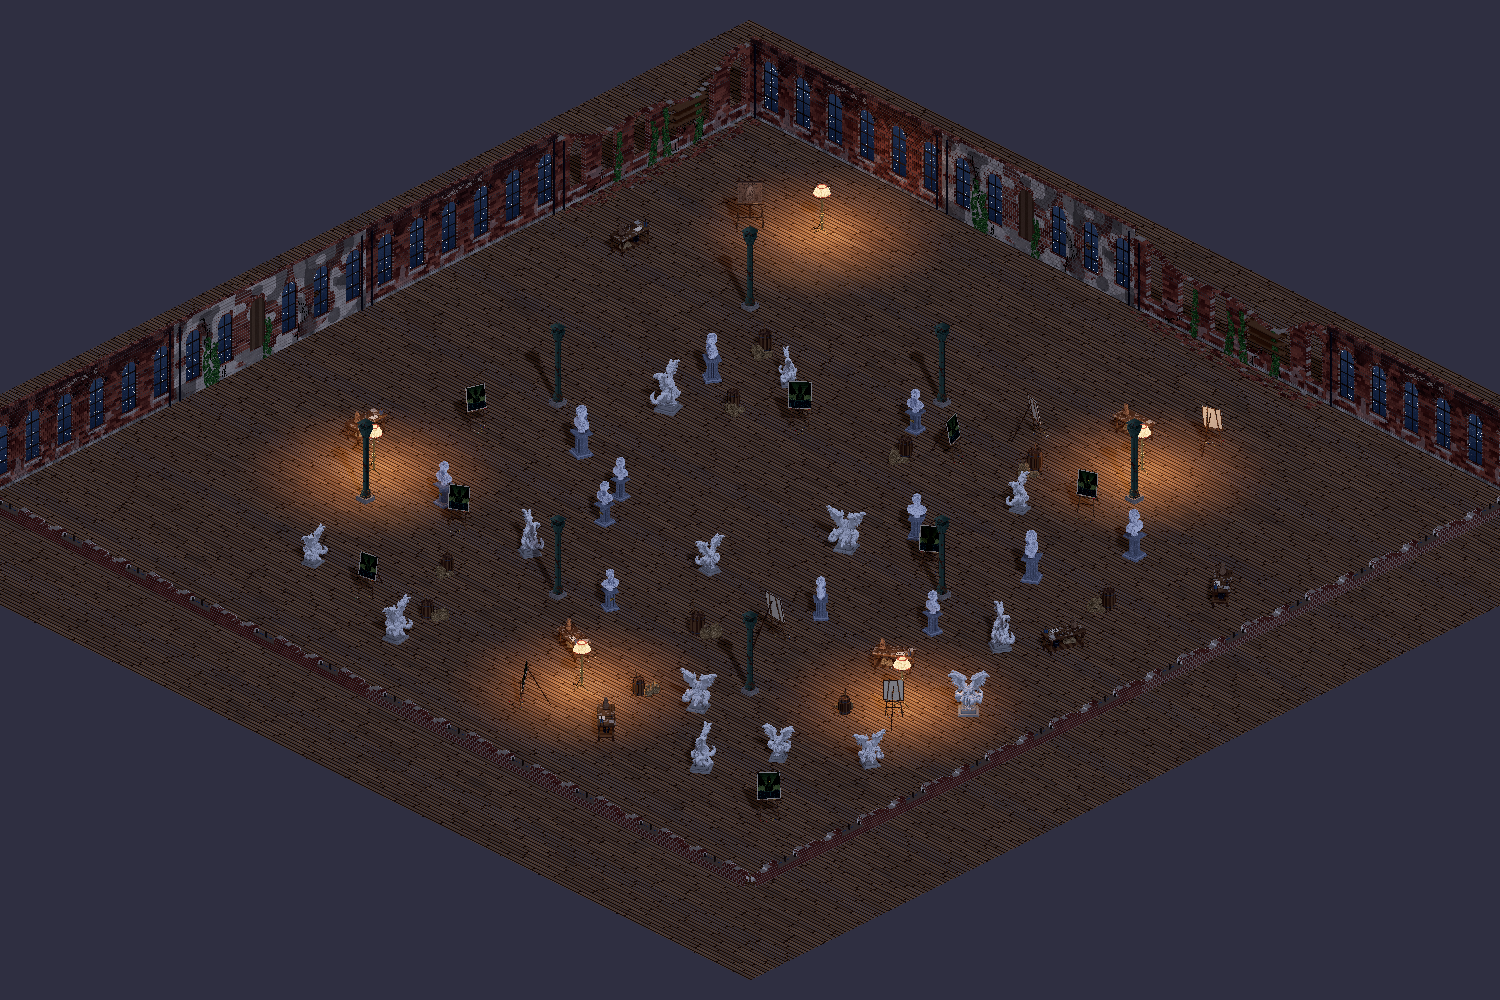
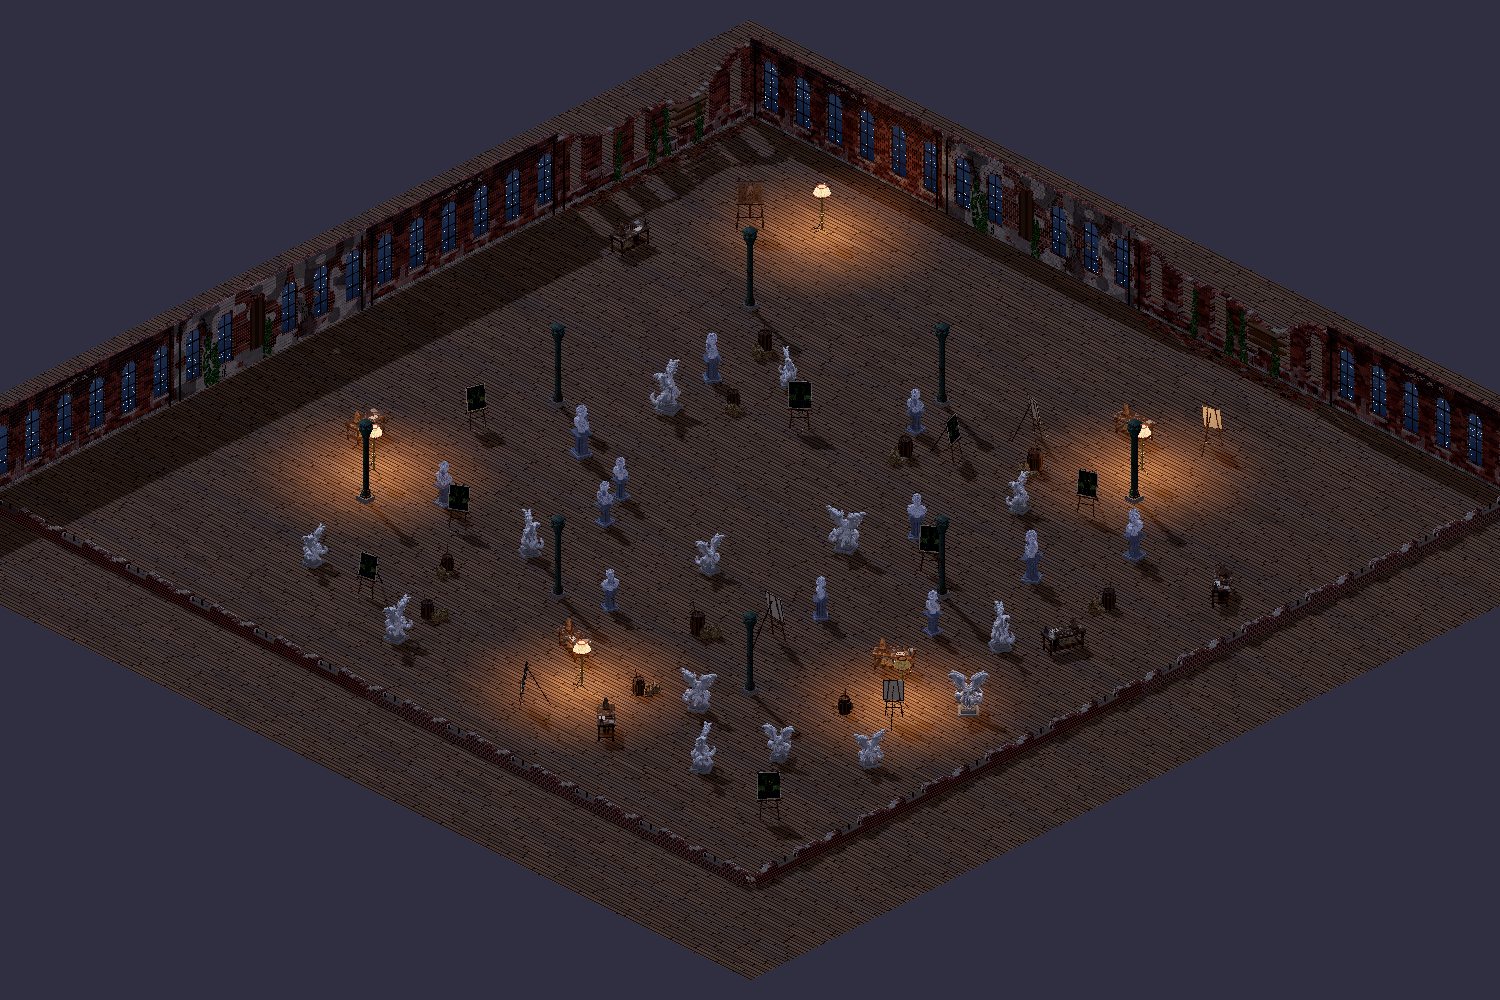
Mejoras pequeñas: tabla de fases del ROADMAP al día (fase 9 hecha, filas de la 15 y la 16); textos de nivel del Webly, los bisturís y la palanca corregidos para que digan lo que hace cada mejora (sin tocar el equilibrio); la luna del estudio de Wilcox entra por los ventanales, como los haces, y las 
Claude-Session: https://claude.ai/code/session_01NBdv2Q42fChdHX58K8AwfN

diff --git a/tools/gen_arena_estudio.py b/tools/gen_arena_estudio.py
@@ -75,7 +75,7 @@ A.write({
                "colors": {"base_hi": [0.56, 0.42, 0.28], "base_lo": [0.36, 0.27, 0.18], "joint": [0.30, 0.22, 0.15],
                           "moss": [0.30, 0.26, 0.20]}},
     # noche: la luna fría por los ventanales, las lámparas cálidas dentro
-    "light": {"gamma": 1.45, "sun_rot": [-40, 60], "sun_color": [0.55, 0.62, 0.80], "sun_energy": 0.35, "exposure": 1.3,
+    "light": {"gamma": 1.45, "sun_rot": [-41, -108], "sun_color": [0.55, 0.62, 0.80], "sun_energy": 0.35, "exposure": 1.3,
               "ambient_color": [0.34, 0.34, 0.42], "ambient_energy": 0.75,
               "background": [0.05, 0.05, 0.07], "fog_color": [0.12, 0.12, 0.16], "fog_density": 0.0},
     "lamp": {"color": [1.0, 0.72, 0.42], "energy": 2.2, "range": 8.0, "fog": 0.2},

diff --git a/docs/ESTADO.md b/docs/ESTADO.md
@@ -1812,7 +1812,7 @@ Los iconos son de píxel (9×9 con borde negro, en fila si son dos), dibujados e
   - arma nueva: «Armas 2 → 3 de 4»; evolución: lo que cambia del arma que lleva a la evolución (daño, cantidad, recarga, alcance, área…).
   - Mientras giran las cartas (el rodillo del cooperativo), no sale.
 - **En la tienda,** en cada potenciador sin completar: «Ahora +0 % → +4 %» (factor, fracción, por segundo o cuenta, según el potenciador).
-- **Un hallazgo:** la comparación saca a la luz textos de nivel que no cuadran con lo que hace el nivel (`level_text` frente a `level_mods`): el Webly al 3 dice «Dispara un 20 % más rápido» y suma un atravesar; los bisturís al 3 dicen «+25 % de daño» y bajan la recarga un 4 %; la palanca al 2 dice «+25 % de daño» y suma un atravesar, y al 5, «+30 % de daño y un segundo disparo» sin el daño. **Sin tocar: es equilibrio; pendiente de tu decisión** (cambiar el texto o la mejora).
+- **Un hallazgo:** la comparación saca a la luz textos de nivel que no cuadran con lo que hace el nivel (`level_text` frente a `level_mods`): el Webly al 3 dice «Dispara un 20 % más rápido» y suma un atravesar; los bisturís al 3 dicen «+25 % de daño» y bajan la recarga un 4 %; la palanca al 2 dice «+25 % de daño» y suma un atravesar, y al 5, «+30 % de daño y un segundo disparo» sin el daño. **Sin tocar: es equilibrio; pendiente de tu decisión** (cambiar el texto o la mejora). *04-11-2026: corregidos los textos (ver «Mejoras pequeñas»).*
 - **Pruebas:** `tests/test_stat_compare.gd` (objeto de vida, menos es mejor en verde, nivel de arma, formato). 702 de 702.
 - **Capturas:** `shots/game_comparar_004.0s.png` (tres objetos), `shots/game_comparar11_004.0s.png` y `game_comparar12_004.0s.png` (mejoras de arma), `shots/titulo_tienda_cmp_011.0s.png` (la tienda).
 
@@ -1895,7 +1895,7 @@ Los iconos son de píxel (9×9 con borde negro, en fila si son dos), dibujados e
 - **Cuántas:** 54 piezas en el estudio, 30 en las calles, 26 en los túneles y 25 en el arrecife. No están las que cierran la arena (pretiles de los tejados, bordas del barco, acantilados) ni las muy grandes (casas, bloques ciclópeos), las que tocan otra pieza (su huella no se podría borrar sola) ni las que están a menos de 2 m del borde.
 - **Cómo** (`scripts/level/decor_break.gd`, `DecorBreak`, datos en `data/decor_break.json`): `Explosion._ready` llama a `DecorBreak.blast`, que mide la distancia a la huella de cada pieza (su caja en el contenedor). Al romperse, `ObstacleMap.clear_box` borra del mapa de lo transitable las celdas de su huella (andar y balas) y recalcula la distancia a lo bloqueado en 4,5 m alrededor por chaflán, con el borde de la ventana fijo (más lejos nada la usa para chocar); sin mapa, quita sus círculos. La pieza no se libera, se esconde: `Ambient` guarda referencias a las piezas.
 - **Calidad:** romperse va en todas (cambia por dónde se anda); en Baja la pieza desaparece sin deshacerse (`Crumble.enabled`) y los cascotes van por calidad (`decor_rubble`: 16, 28, 40, 56).
-- **Red:** decide el anfitrión, que ve todas las explosiones (cada PC simula las armas de todos), y manda el suceso «decor» con el número de la pieza (EVENT); los invitados la rompen igual (`mirror`). `PROTOCOL` 18. Quien entra con la partida empezada no ve rotas las que ya cayeron.
+- **Red:** decide el anfitrión, que ve todas las explosiones (cada PC simula las armas de todos), y manda el suceso «decor» con el número de la pieza (EVENT); los invitados la rompen igual (`mirror`). `PROTOCOL` 18. Quien vuelve con la partida empezada entra al nivel siguiente (`NetSession.late`), que empieza con todas las piezas enteras: no hay nada que sincronizar.
 - **Coste:** unos 2 ms al romperse una pieza (1,3-1,8 el mapa, 0,4-0,9 los trozos, 0,2 los cascotes). La paleta de cada modelo se calculaba la primera vez (hasta 15 ms: 16,7 ms con el montón de escombros de las calles); ahora se adelanta al empezar el nivel, un modelo por fotograma.
 - **Opciones:** `decor_break=false` lo quita; `decor_blast=t` hace estallar, desde t s, explosiones en las cuatro piezas más cercanas al J1 (las que hagan falta para romperlas); `log=true` escribe cuántas piezas hay y lo que cuesta cada una al romperse.
 - **Pruebas:** `tests/test_decor_break.gd` (borrar una caja del mapa, recto y girado, deja pasar y recalcula la distancia; sin mapa quita el círculo; qué piezas se pueden romper; un muro de piedra aguanta una explosión y cae a la segunda, deja cascotes y por donde estaba se pasa; el suceso de red; los cascotes por calidad). 727 de 727.
@@ -1928,6 +1928,22 @@ Los iconos son de píxel (9×9 con borde negro, en fila si son dos), dibujados e
 - **Era la granada:** las compilaciones iban 0,75 s antes de cada tanda de explosiones, al lanzarla (cadencia a nivel 5: 2,8 × 0,8 = 2,24 s). `ThrownExplosive` creaba un `BoxMesh` y un `StandardMaterial3D` nuevos por pieza y lanzamiento, y cada uno compilaba. Ahora se comparten (`ThrownExplosive._pieces`, por tamaño y color). No eran ni la chispa (`OmniLight3D`) ni el rastro de partículas (probados por separado). El arrecife, de 17,7 a **15,85 ms** en el 1 % peor (15,76-15,96, tres veces) y de 9,4 a 8,7 de media. Con esto pasaron los 15 en esa medición, **pero no de forma estable** (ver abajo). Repaso de los otros 14 con `spikes=true`: ninguna serie de compilaciones con periodo; quedan 0-4 sueltas por nivel tras los 13 s (lo primero que aparece).
 - **Medición de los 15 niveles tras arreglar la granada** (tabla en `docs/RENDIMIENTO.md`): media 7,0-9,3 ms y 1 % peor 13,1-18,7 ms; cuatro pasan de 16,7 (p1_n2 18,6, p1_n5 17,0, p3_n1 17,1, p3_n3 18,7) que en la anterior no pasaban, sin cambios que les afecten. Repetidos tres veces con `comparar.py`: 15,49 (14,40-16,97), 14,96 (14,79-15,06), 16,08 (13,29-17,52) y 17,58 (15,95-20,08). **Conclusión:** los niveles están en 14-17,5 ms y el ruido entre ejecuciones (±2 ms) decide si pasan del límite; para decir algo de un nivel, tres ejecuciones o más. Lo que queda son picos sueltos de varios tipos (dos pasos de física, apariciones, alguna compilación de lo que sale por primera vez), sin una causa que se repita.
 - **Pruebas:** `test_lo_lanzado_comparte_mallas`. 732 de 732. `log_ups=true` dice además a qué hora es cada subida.
+
+## Mejoras pequeñas (04-11-2026)
+
+- **Tabla de fases del ROADMAP al día:** la fase 9, hecha (23-10-2026) salvo la prueba por internet; filas nuevas para la 15 y la 16.
+- **Textos de nivel de tres armas** (`data/weapons/`), corregidos para que digan lo que hace cada mejora; la mejora no se toca (el equilibrio sigue igual):
+  - Webly al 3: «Atraviesa a un enemigo» (decía «Dispara un 20 % más rápido»); al 5, «Atraviesa a un enemigo más y +20 % de daño».
+  - Bisturís al 3: «Lanza un 4 % más rápido» (decía «+25 % de daño»); al 5, «… lanza un 15 % más rápido». **Para que lo mires:** una recarga del 4 % es muy poco para un nivel, y el texto antiguo apunta a que la mejora iba a ser `"damage*": 1.25`.
+  - Palanca: los cuatro textos iban un nivel desfasados. Ahora: «Atraviesa a un enemigo más», «Atraviesa a otro más y dispara un 10 % más rápido», «Dispara un 15 % más rápido» y «Un segundo disparo».
+  - Repaso de todas las armas con un script (texto frente a `level_mods`): no hay más (los otros avisos eran daño del fuego, ritmo de golpes o «más fuerte»).
+- **La luna del estudio de Wilcox** (`tools/gen_arena_estudio.py`, `sun_rot` de [-40, 60] a [-41, -108]): ahora entra por los ventanales del oeste, como los haces de luna (16.32), y las sombras de las estatuas y las farolas caen hacia dentro, en la misma dirección que los haces. Mediana de brillo 0,141 → 0,145. Arena y mapa de la Biblioteca regenerados. Capturas: `shots/game_est_a2_004.0s.png` (antes) y `game_est_d2_004.0s.png` (después).
+- **Decorado roto y quien vuelve a la partida en red:** no hacía falta nada. Quien vuelve con la partida empezada entra al nivel siguiente (`NetSession.late`), que empieza entero. Corregida la nota del 16.34.
+- **Cuatro logros nuevos** (`data/achievements/27-30`), por debajo de 500 $ para no salir de los 12 huecos de la vitrina de logros grandes:
+  - «La llave de plata» y «Sangre de Dunwich»: superar un nivel con Randolph Carter y con Wilbur Whateley (400 $ cada uno, con su retrato). No por abrirlos: eso ya lo cuentan «Bibliotecario» y «Nada nos detiene», que son su condición. Estadísticas `won_carter` y `won_whateley` (`Game`, al superar un nivel, los investigadores secretos de este PC que no son bots).
+  - «Paciencia de pescador» (diez piezas, 150 $) y «Lo que guarda la marea» (las nueve criaturas del muelle, malditas incluidas, 450 $). `Achievements.value` las cuenta de `records.fishing` (`fish_caught`, `fish_species`); se comprueban al acabar la pesca y salen en su resumen.
+- **Trueno en la tormenta de los relatos:** cada relámpago del cielo de tormenta (16.35) suena con el trueno de la partida, de 0,4 a 1,4 s después del fogonazo.
+- **Pruebas:** `tests/test_logros_mejoras.gd` (los logros existen y no llenan la vitrina, la pesca cuenta piezas y especies, los secretos tienen el suyo). 735 de 735.
 
 ## Ideas propuestas y sin hacer (23-10-2026)
 

diff --git a/docs/ROADMAP.md b/docs/ROADMAP.md
@@ -24,12 +24,14 @@ Fases del proyecto, criterios de aceptación y estado. El diseño está en [`GDD
 | 6 | Parte 2 completa | **Hecha** salvo tu partida (08-10-2026) | Ninguna (D-13 y jefes colosales, resueltas) |
 | 7 | Parte 3 completa | **Hecha** salvo tu partida (08-10-2026) | Ninguna (Ángulos devoradores y Cthulhu, resueltos) |
 | 8 | Pulido y distribución | **En curso:** hitos 8.1 a 8.3 y 8.6 a 8.16 hechos, pendientes de tu revisión; 8.4 espera tus partidas y 8.5, tu cuenta de itch.io | Ninguna (D-01 y D-12, resueltas) |
-| 9 | Online | **Plan aprobado** (21-10-2026) | Ninguna (D-10, resuelta) |
+| 9 | Online | **Hecha** (23-10-2026) salvo tu prueba real por internet (`docs/PRUEBA_ONLINE.md`) | Ninguna (D-10, resuelta) |
 | 10 | Guardado en la nube con GitHub | **Hecha** (26-10-2026) salvo el `client_id` de tu OAuth App y tu prueba con dos PC | Ninguna (D-11, resuelta) |
 | 11 | Calidad gráfica, animación y efectos | **Hecha** (28-10-2026) salvo tu revisión | Ninguna |
 | 12 | Detalles de personajes, enemigos, compañeros y escenarios | **Hecha** (29-10-2026) salvo tu revisión | Ninguna (D-41, resuelta) |
 | 13 | Calibración, modos de juego, narrativa, sonido, herramientas y distribución | **Hecha (30-10-2026)**, pendiente de tu revisión: los 17 hitos; la subida de la demo y el tráiler a itch.io, con tu cuenta | Las de cada hito (al final de la fase) |
 | 14 | Vestuario ampliado y tienda de ropa | **Hecha** (30-10-2026), pendiente de revisión del autor | Ninguna |
+| 15 | Repetición de la caída, modo desafío, enemigos nuevos y bestiario vivo | **Hecha** (30-10-2026; mejoras el 02-11-2026), pendiente de tu revisión | Ninguna |
+| 16 | Rendimiento, jugabilidad del género, enemigos, modos, menús y gráficos | **Hecha** (03-11-2026) en el alcance elegido (D-46), pendiente de tu revisión: bloques A (16.4 fuera; 16.1 al borde: 1 % peor de 14-17,5 ms en Alta frente al límite de 16,7), B (16.8, 16.9, 16.12, 16.14 y 16.15), C, D, E y F; G no elegido. Por revisar las propuestas D-47, D-48 y D-49 | Ninguna (D-46, resuelta) |
 
 ---
 
